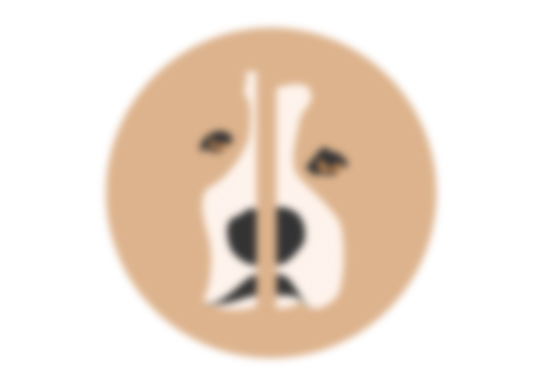
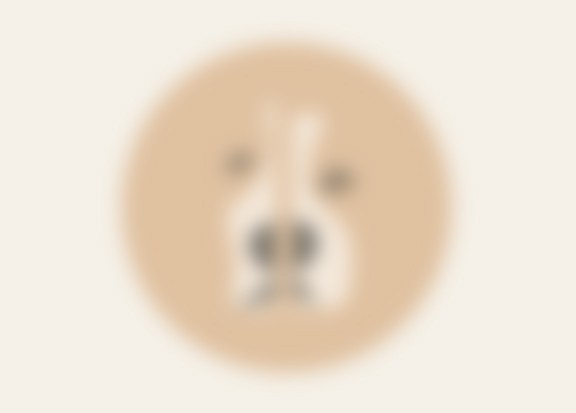
Adjusted images and code, starting on med screen

Changed region(s): [[0.1476, 0.0623, 0.8266, 0.9662]]

diff --git a/css/main.css b/css/main.css
@@ -6,7 +6,8 @@
 
 html {
 	font-family: 'Lato', sans-serif;
-	background: url("../imgs/gradient.jpg");
+	background: url("../imgs/gradient-2.jpg");
+  background-size: 100% 100%;
 }
 
 body {
@@ -45,6 +46,9 @@ a {
   margin-right: auto;
 }
 
+.medevan {
+  display: none;
+}
 
 .lilevan {
 	display: block;
@@ -55,7 +59,7 @@ a {
 
 .type {
 	width: 14.0625rem;
-	border:2px solid #000;
+  border: 2px solid #000;
 	display: block;
   margin-left: auto;
   margin-right: auto;
@@ -80,5 +84,23 @@ a {
 	margin-left: auto;
   margin-right: auto;
   margin-top: 1rem;
+}
+
+
+@media only screen and (min-width: 48em) {
+    .medevan {
+    display: block;
+    margin-top: 4rem;
+    margin-left: -11rem;
+  }
+
+    .lilevan {
+    display: none;
+  }
+
+  .type {
+  width: 27.0625rem;
+  }
+
 }
 

diff --git a/index.html b/index.html
@@ -20,6 +20,11 @@
 				<img class="lilevan" src="imgs/evan-small-screen.jpg" alt="little evan">
 			</div>
 
+
+			<div>
+				<img class="medevan" src="imgs/evan-med-screen.png" alt="med evan">
+			</div>
+
 			<div>
 				<h1>Evan Lefebvre</h1>
 			</div>
